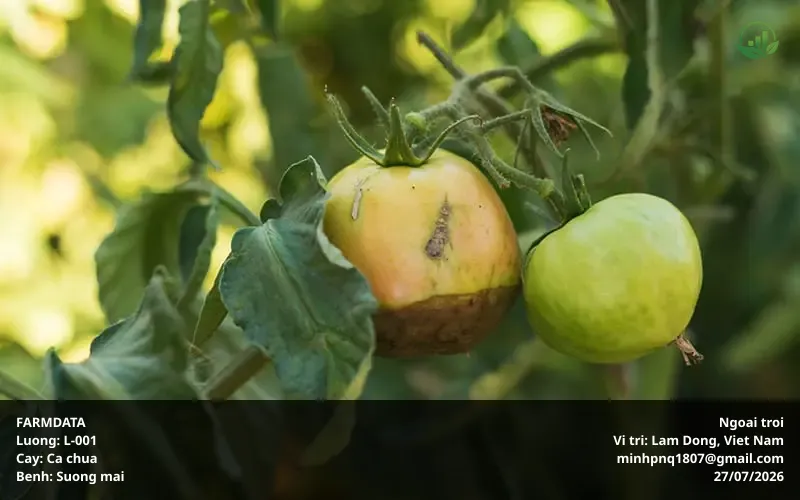
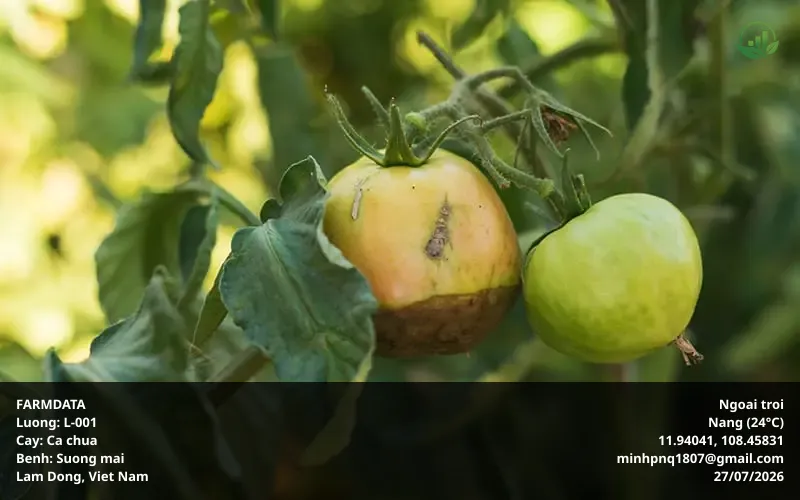
feat: update watermark to include weather, temperature, and GPS coordinates in image generation

Changed region(s): [[0.0, 0.75, 1.0, 0.99]]

diff --git a/backend/src/services/googleDriveService.ts b/backend/src/services/googleDriveService.ts
@@ -583,6 +583,8 @@ export interface DriveUploadOptions {
     region?: string;
     country?: string;
   };
+  weatherCode?: number;
+  temperature?: number;
 }
 
 async function addMarkOverlay(
@@ -593,6 +595,8 @@ async function addMarkOverlay(
     cropType?: string;
     diseaseName?: string;
     envMode?: string;
+    weatherCode?: number;
+    temperature?: number;
     captureLocation?: {
       latitude?: number;
       longitude?: number;
@@ -610,7 +614,6 @@ async function addMarkOverlay(
     const width = imgMetadata.width || 800;
     const height = imgMetadata.height || 600;
 
-
     const dateStr = new Date().toLocaleDateString("vi-VN", {
       timeZone: "Asia/Ho_Chi_Minh",
       day: "2-digit",
@@ -623,35 +626,50 @@ async function addMarkOverlay(
     const crop = metadata.cropType || "N/A";
     const disease = metadata.diseaseName || "N/A";
 
-    const leftLines = [
-      `FARMDATA`,
-      `Luong: ${plot}`,
-      `Cay: ${crop}`,
-      `Benh: ${disease}`,
-    ].map(toAsciiWatermarkText);
-
     const lat = metadata.captureLocation?.latitude;
     const lng = metadata.captureLocation?.longitude;
-    const addr = metadata.captureLocation?.formattedAddress || metadata.captureLocation?.name;
+    const addr =
+      metadata.captureLocation?.formattedAddress ||
+      metadata.captureLocation?.name;
     const city = metadata.captureLocation?.city;
     const region = metadata.captureLocation?.region;
-    const locationPart = addr 
-      ? addr 
-      : (city || region) 
+    const locationPart = addr
+      ? addr
+      : city || region
         ? [region, city].filter(Boolean).join(", ")
-        : (lat !== undefined && lng !== undefined)
+        : lat !== undefined && lng !== undefined
           ? `${lat.toFixed(4)}, ${lng.toFixed(4)}`
           : "N/A";
-    const locationStr = `Vi tri: ${locationPart}`;
+    const locationStr = `${locationPart}`;
+
+    const leftLines = [
+      `FARMDATA`,
+      `Luong ${plot}`,
+      `Cay ${crop}`,
+      `Benh ${disease}`,
+      locationStr,
+    ].map(toAsciiWatermarkText);
+
+    const gpsStr =
+      lat !== undefined && lng !== undefined
+        ? `${lat.toFixed(5)}, ${lng.toFixed(5)}`
+        : "N/A";
 
     const envLower = (metadata.envMode || "").toLowerCase();
-    const envStr = envLower.includes("greenhouse") || envLower.includes("kinh")
-      ? "Nha kinh"
-      : "Ngoai troi";
+    const envStr =
+      envLower.includes("greenhouse") || envLower.includes("kinh")
+        ? "Nha kinh"
+        : "Ngoai troi";
+
+    const tempStr =
+      metadata.temperature !== undefined ? `${metadata.temperature}°C` : "--°C";
+    const weatherLabel = getWeatherCodeLabel(metadata.weatherCode);
+    const weatherStr = `${weatherLabel} (${tempStr})`;
 
     const rightLines = [
       envStr,
-      locationStr,
+      weatherStr,
+      gpsStr,
       `${email}`,
       `${dateStr}`,
     ].map(toAsciiWatermarkText);
@@ -696,7 +714,10 @@ async function addMarkOverlay(
       </svg>
     `;
 
-    const logoPath = path.resolve(__dirname, "../../../frontend/assets/images/logo.svg");
+    const logoPath = path.resolve(
+      __dirname,
+      "../../../frontend/assets/images/logo.svg",
+    );
     let logoBuffer: Buffer | null = null;
     try {
       if (fs.existsSync(logoPath)) {
@@ -711,7 +732,7 @@ async function addMarkOverlay(
         input: Buffer.from(svgText),
         top: 0,
         left: 0,
-      }
+      },
     ];
 
     if (logoBuffer) {
@@ -726,9 +747,7 @@ async function addMarkOverlay(
       });
     }
 
-    return await sharpImg
-      .composite(compositeList)
-      .toBuffer();
+    return await sharpImg.composite(compositeList).toBuffer();
   } catch (err) {
     console.warn(
       "Failed to create mark overlay, returning original buffer:",
@@ -817,6 +836,8 @@ async function uploadImagesToDrive(
       diseaseName,
       envMode,
       captureLocation: options.captureLocation,
+      weatherCode: options.weatherCode,
+      temperature: options.temperature,
     });
     const baseName = labelName.substring(0, labelName.lastIndexOf("."));
     const extension = labelName.substring(labelName.lastIndexOf("."));
@@ -1027,7 +1048,8 @@ export async function uploadImagesToAdminDrive(
   // Test/mock fallback only. Production must use the creator Admin OAuth.
   if (
     (!admin ||
-      (!admin.googleTokens?.accessToken && !admin.googleTokens?.refreshToken)) &&
+      (!admin.googleTokens?.accessToken &&
+        !admin.googleTokens?.refreshToken)) &&
     (env.nodeEnv === "test" || CLIENT_ID === "mock_client_id")
   ) {
     admin = await UserModel.findOne({

diff --git a/backend/src/controllers/session.controller.ts b/backend/src/controllers/session.controller.ts
@@ -75,10 +75,14 @@ export const createSession = async (req: Request, res: Response) => {
       return res.status(400).json({ error: "Loại cây trồng là bắt buộc" });
     }
     if (!growthStage) {
-      return res.status(400).json({ error: "Giai đoạn sinh trưởng là bắt buộc" });
+      return res
+        .status(400)
+        .json({ error: "Giai đoạn sinh trưởng là bắt buộc" });
     }
     if (!GROWTH_STAGE_IDS.includes(growthStage as GrowthStageId)) {
-      return res.status(400).json({ error: "Giai đoạn sinh trưởng không hợp lệ" });
+      return res
+        .status(400)
+        .json({ error: "Giai đoạn sinh trưởng không hợp lệ" });
     }
     if (!envMode) {
       return res.status(400).json({ error: "Môi trường là bắt buộc" });
@@ -90,7 +94,9 @@ export const createSession = async (req: Request, res: Response) => {
     if (
       !SYMPTOM_SEVERITY_VALUES.includes(normalizedSeverity as SymptomSeverity)
     ) {
-      return res.status(400).json({ error: "Mức độ nghiêm trọng không hợp lệ" });
+      return res
+        .status(400)
+        .json({ error: "Mức độ nghiêm trọng không hợp lệ" });
     }
     const cleanSymptomDescription =
       typeof symptomDescription === "string" ? symptomDescription.trim() : "";
@@ -146,6 +152,8 @@ export const createSession = async (req: Request, res: Response) => {
       description: imageDescription,
       destination: "capture",
       captureLocation,
+      weatherCode: normalizedStationMeasurements.weatherCode,
+      temperature: normalizedStationMeasurements.temperature,
     });
     const originalFiles = driveFiles.filter(
       (f) => !f.fileName || !f.fileName.includes("_MARK"),

diff --git a/backend/scratch/test_watermark.js b/backend/scratch/test_watermark.js
@@ -44,19 +44,23 @@ async function testWatermark() {
     const crop = "Ca chua";
     const disease = "Suong mai";
 
+    const locationStr = "Lam Dong, Viet Nam";
     const leftLines = [
       `FARMDATA`,
       `Luong: ${plot}`,
       `Cay: ${crop}`,
       `Benh: ${disease}`,
+      locationStr,
     ].map(toAsciiWatermarkText);
 
     const envStr = "Ngoai troi";
-    const locationStr = "Vi tri: Lam Dong, Viet Nam";
+    const gpsStr = "11.94041, 108.45831";
+    const weatherStr = "Nang (24°C)";
 
     const rightLines = [
       envStr,
-      locationStr,
+      weatherStr,
+      gpsStr,
       `${email}`,
       `${dateStr}`,
     ].map(toAsciiWatermarkText);
